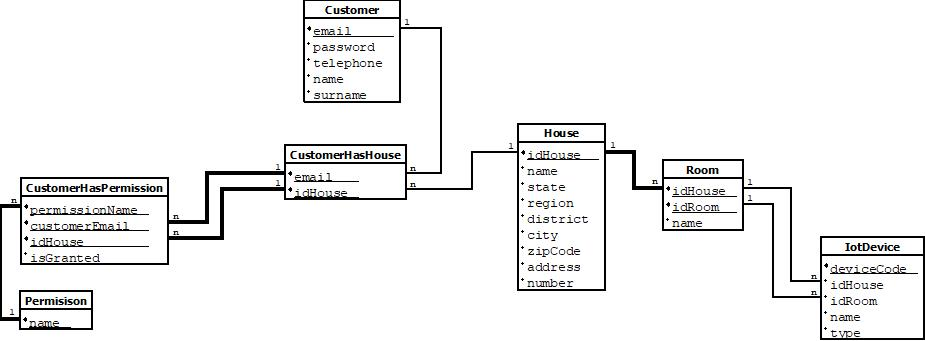
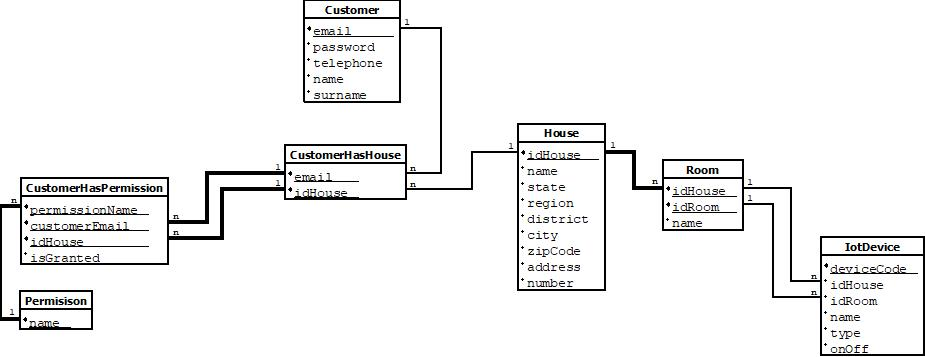
Minors updates
Little update on db design (not documented yet) and on login.html

diff --git a/website/templates/login.html b/website/templates/login.html
@@ -26,12 +26,11 @@
     </div>
   </div>
 
-  <form id="login-form" class="container-sm needs-validation" action="{{url_for('userhome')}}" method="post" novalidate autocomplete="off">
+  <form id="login-form" class="container-sm needs-validation" action="{{url_for('loginverification')}}" method="post" novalidate autocomplete="off">
     <div id="email-general-container" class="mt-5">
       <label for="email" class="form-label text-primary fs-4 mb-2">Email address (*)</label>
       <div class="input-group">
         <input type="email" name="email" class="form-control fs-5" placeholder="name@example.com" required>
-        <!-- custom email constraint: pattern="[a-z0-9!#$%&'*+/=?^_`{|}~-]+(?:\.[a-z0-9!#$%&'*+/=?^_`{|}~-]+)*@(?:[a-z0-9](?:[a-z0-9-]*[a-z0-9])?\.)+[a-z0-9](?:[a-z0-9-]*[a-z0-9])?" -->
         <button data-btn-action="delete-input" type="button" class="btn btn-outline-secondary fs-5">X</button>
         <div class="invalid-feedback mt-2">Invalid value!</div>
         <div class="valid-feedback mt-2">Correct!</div>
